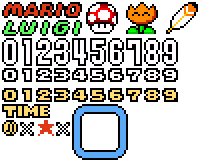
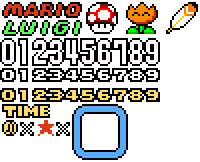
Adjust HUD layout
It's nearly pixel perfect, certainly good enough

Changed region(s): [[0.0, 0.216, 0.9, 0.6481]]

diff --git a/Level.cpp b/Level.cpp
@@ -142,6 +142,7 @@ void Level::Paint()
 	GAME_ENGINE->SetViewMatrix(matCameraView);
 }
 
+// TODO: Make this scalable
 void Level::PaintHUD()
 {
 	int playerLives = m_PlayerPtr->GetLives();
@@ -153,11 +154,11 @@ void Level::PaintHUD()
 
 	int timeRemaining = m_TotalTime - int(m_SecondsElapsed);
 
-	int x = 30;
+	const int SCALE = 2;
+
+	int x = 31;
 	int y = 30;
 	RECT2 srcRect;
-
-	const int SCALE = 2;
 
 	// LATER: Add luigi here when he's playing
 	// MARIO
@@ -175,9 +176,19 @@ void Level::PaintHUD()
 	srcRect = GetSmallSingleNumberSrcRect(playerLives, false);
 	GAME_ENGINE->DrawBitmap(SpriteSheetManager::hud, x, y, srcRect);
 
+	// DRAGON COINS
+	x += 48;
+	y = 30;
+	for (size_t i = 0; i < playerDragonCoins; ++i)
+	{
+		srcRect = RECT2(1 * SCALE, 60 * SCALE, 1 * SCALE + 8 * SCALE, 60 * SCALE + 8 * SCALE);
+		GAME_ENGINE->DrawBitmap(SpriteSheetManager::hud, x, y, srcRect);
+		x += 8 * SCALE;
+	}
+
 	// RED STAR
-	y -= 3;
-	x += 68;
+	y += 16;
+	x = 140;
 	srcRect = RECT2(19 * SCALE, 60 * SCALE, 19 * SCALE + 8 * SCALE, 60 * SCALE + 8 * SCALE);
 	GAME_ENGINE->DrawBitmap(SpriteSheetManager::hud, x, y, srcRect);
 
@@ -188,7 +199,7 @@ void Level::PaintHUD()
 	GAME_ENGINE->DrawBitmap(SpriteSheetManager::hud, x, y, srcRect);
 
 	// NUMBER OF STARS
-	x += 42;
+	x += 48;
 	y -= 15;
 	PaintSeveralDigitLargeNumber(x, y, playerStars);
 
@@ -199,13 +210,13 @@ void Level::PaintHUD()
 	GAME_ENGINE->DrawBitmap(SpriteSheetManager::hud, x, y, srcRect);
 
 	// TIME
-	x += 72;
+	x += 75;
 	y = 30;
 	srcRect = RECT2(1 * SCALE, 52 * SCALE, 1 * SCALE + 24 * SCALE, 52 * SCALE + 7 * SCALE);
 	GAME_ENGINE->DrawBitmap(SpriteSheetManager::hud, x, y, srcRect);
 
 	// TIME VALUE
-	y += 17;
+	y += 19;
 	x += 32;
 	PaintSeveralDigitNumber(x, y, timeRemaining, true);
 
@@ -259,7 +270,7 @@ RECT2 Level::GetSmallSingleNumberSrcRect(int number, bool yellow)
 
 	const int SCALE = 2;
 
-	int numberWidth = 9 * SCALE;
+	int numberWidth = 8 * SCALE;
 	int numberHeight = 7 * SCALE;
 	int xo = 0 + numberWidth * number;
 	int yo = 34 * SCALE;
@@ -295,7 +306,7 @@ RECT2 Level::GetLargeSingleNumberSrcRect(int number)
 
 	const int SCALE = 2;
 
-	int numberWidth = 9 * SCALE;
+	int numberWidth = 8 * SCALE;
 	int numberHeight = 14 * SCALE;
 	int xo = 0 + numberWidth * number;
 	int yo = 19 * SCALE;

diff --git a/Player.cpp b/Player.cpp
@@ -37,7 +37,7 @@ void Player::Reset()
 	m_Score = 0;
 	m_Coins = 0;
 	m_Lives = 5;
-	m_Stars = 15;
+	m_Stars = 0;
 	m_DragonCoins = 0;
 }
 
